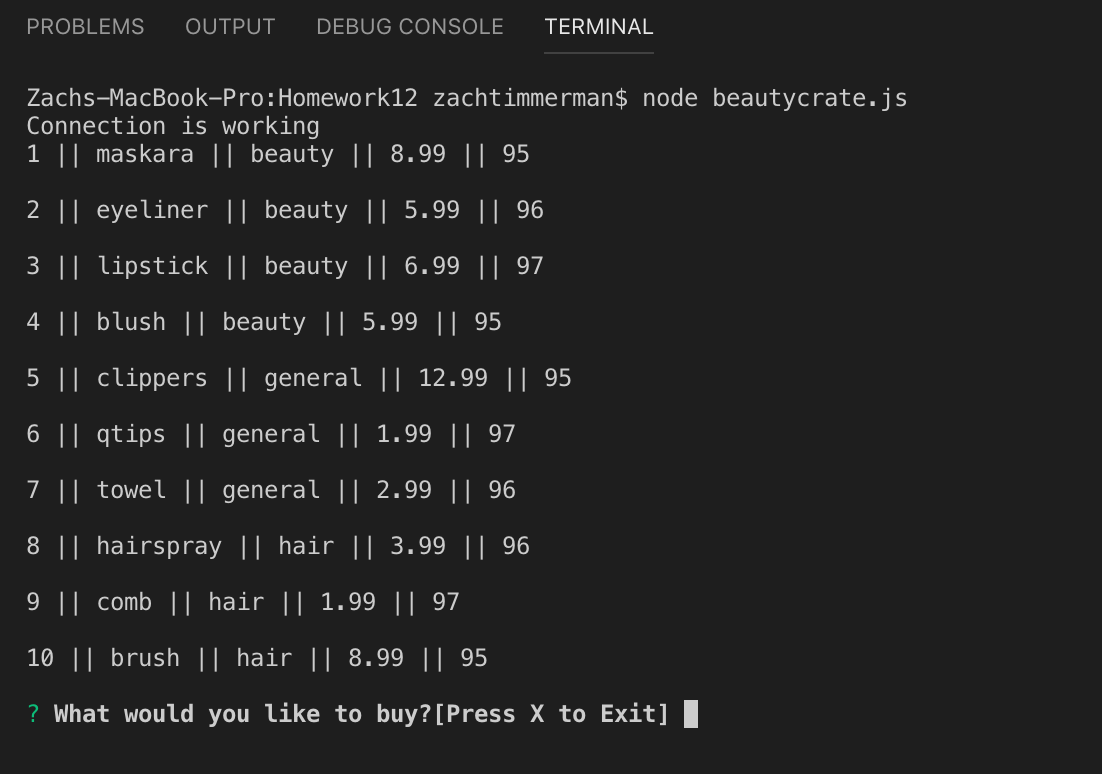
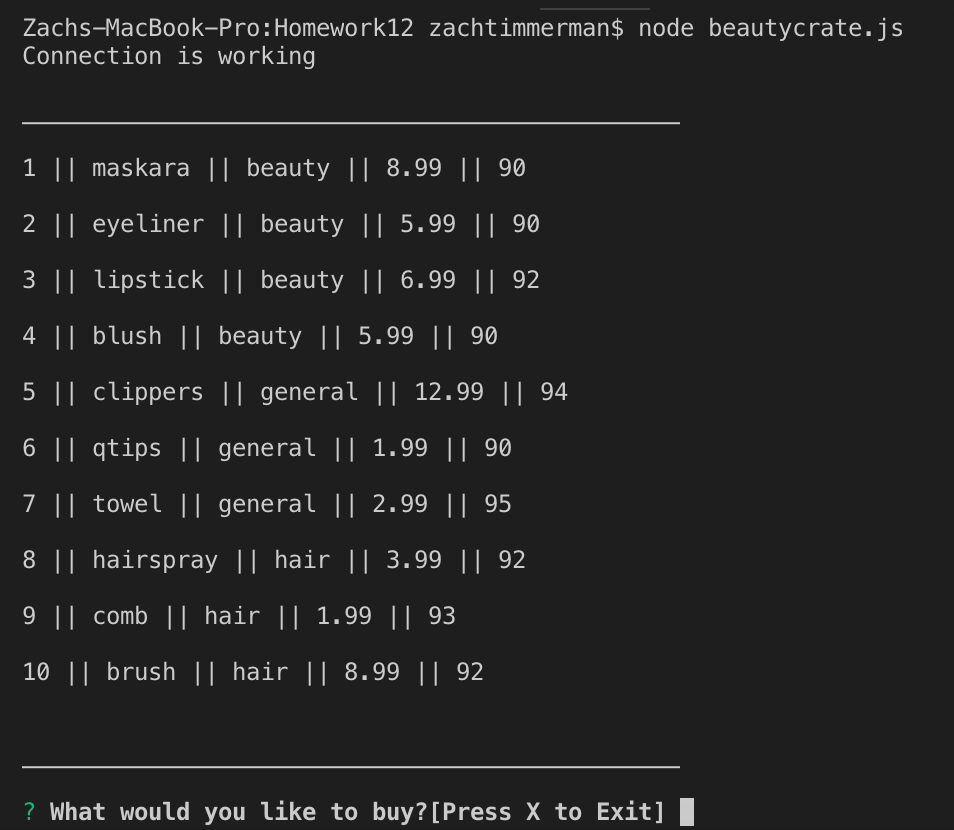
images working

diff --git a/beautycrate.js b/beautycrate.js
@@ -22,6 +22,7 @@ var connection = mysql.createConnection({
 connection.connect(function (err) {
     if (err) throw err;
     console.log("Connection is working")
+    console.log("\n_______________________________________________\n");
     makeTable();
 });
 
@@ -31,10 +32,10 @@ function makeTable() {
             console.log(res[i].id + " || " + res[i].product + " || " +
                 res[i].department + " || " + res[i].price + " || " + res[i].stock + "\n");
         }
+        console.log("\n_______________________________________________\n");
         startShopping(res);
     })
 }
-
 
 function startShopping(res) {
     inquirer.prompt([{
@@ -75,7 +76,10 @@ function startShopping(res) {
                                     console.log("\n_______________________________________________\n");
                                     console.log("Your total is " + total + " Thanks for shopping!");
                                     console.log("\n_______________________________________________\n");
-                                    continueShopping();
+                                    console.log("Inventory has been updated. See below.");
+                                    console.log("\n_______________________________________________\n");
+                                    makeTable();
+                                    // continueShopping();
                                 })
                         } else {
                             console.log("Not a valid quantity.");
@@ -88,23 +92,23 @@ function startShopping(res) {
                 console.log("Choose another Product");
                 startShopping(res);
             }
-             // Ask the customer if they would like to continue shopping //
-             function continueShopping() {
-                inquirer.prompt({
-                    name: "action",
-                    type: "list",
-                    message: " Would you like to make another purchase?\n",
-                    choices: ["Yes", "No"]
-                }).then(function (answer) {
-                    switch (answer.action) {
-                        case "Yes":
-                        makeTable();
-                            break;
-                        case "No":
-                            connection.end();
-                            break;
-                    }
-                })
-            };
         })
 }
+
+ // Ask the customer if they would like to continue shopping //
+//  function continueShopping() {
+//     inquirer.prompt({
+//         name: "action",
+//         type: "list",
+//         message: " Would you like to make another purchase?\n",
+//         choices: ["Yes", "No"]
+//     }).then(function (answer) {
+//         switch (answer.action) {
+//             case "Yes":
+//                 break;
+//             case "No":
+//                 connection.end();
+//                 break;
+//         }
+//     })
+// }
